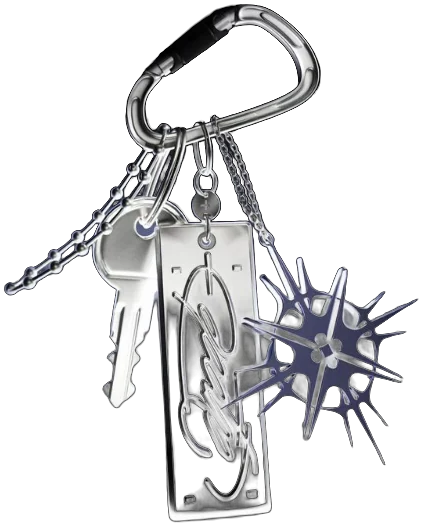
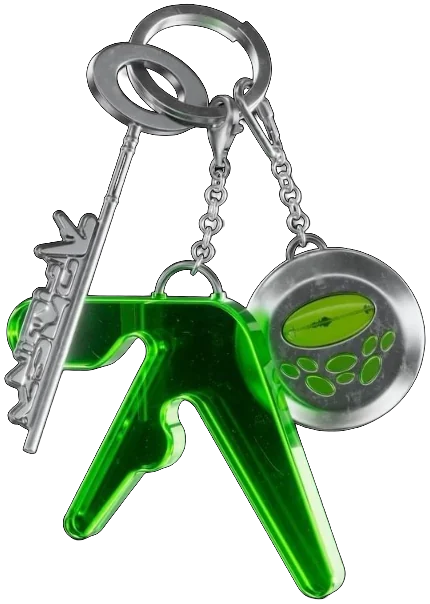
Versão 2: troca pelo chaveiro verde
Novo recorte (argola, chave, peça de acrílico verde e medalha), com o ponto de
giro na argola e o ângulo de repouso calculado pelo centro de massa da imagem.

Claude-Session: https://claude.ai/code/session_01BJCJBYPfTMpGk3G2y5F1YN

diff --git a/portfolio-site-v2/assets/css/style.css b/portfolio-site-v2/assets/css/style.css
@@ -305,8 +305,9 @@ p { text-wrap: pretty; }
 .hh-pill:active, .hh-pill.held { transform: translate(-50%, calc(-50% + 0.4cqw)); box-shadow: 0 0.15cqw 0 #8e8e8a, inset 0 0.3cqw 0 rgb(255 255 255 / 0.1); }
 
 /* Chaveiro: alça na lateral do console (no celular, um ilhós no canto) e o chaveiro pendurado nela.
-   O ponto de giro é o topo do mosquetão: 58% da largura e 3% da altura da imagem. */
-.toy { --kc-w: 42cqw; --lug-x: 102cqw; --lug-y: 108cqw; --kc-rest: -10deg; }
+   O ponto de giro é o topo da argola: --kc-px e --kc-py, em fração da imagem (430x604, proporção --kc-ar).
+   --kc-rest é o ângulo em que o peso fica embaixo do ponto de giro. */
+.toy { --kc-w: 38cqw; --lug-x: 102cqw; --lug-y: 108cqw; --kc-rest: 5deg; --kc-px: 0.434; --kc-py: 0.015; --kc-ar: 1.405; }
 .hh-lug {
   position: absolute; left: calc(100% - 0.5cqw); top: calc(var(--lug-y) - 4.5cqw); width: 5.6cqw; height: 9cqw;
   border: 1.9cqw solid #b9b9b4; border-left: 0; border-radius: 0 4.5cqw 4.5cqw 0;
@@ -315,18 +316,18 @@ p { text-wrap: pretty; }
 .keychain { position: absolute; inset: 0; z-index: 3; pointer-events: none; filter: drop-shadow(0 1px 1px rgb(0 0 0 / 0.28)) drop-shadow(0 10px 12px rgb(30 40 60 / 0.22)); }
 .kc-anchor { position: absolute; left: var(--lug-x); top: var(--lug-y); width: 0; height: 0; }
 .kc-swing {
-  position: absolute; left: calc(var(--lug-x) - var(--kc-w) * 0.58); top: calc(var(--lug-y) - var(--kc-w) * 0.037); width: var(--kc-w);
-  transform-origin: 58% 3%; transform: rotate(var(--kc-rest)); pointer-events: auto; cursor: grab; touch-action: none; will-change: transform;
+  position: absolute; left: calc(var(--lug-x) - var(--kc-w) * var(--kc-px)); top: calc(var(--lug-y) - var(--kc-w) * var(--kc-ar) * var(--kc-py)); width: var(--kc-w);
+  transform-origin: calc(var(--kc-px) * 100%) calc(var(--kc-py) * 100%); transform: rotate(var(--kc-rest)); pointer-events: auto; cursor: grab; touch-action: none; will-change: transform;
 }
 .kc-swing:active { cursor: grabbing; }
 .kc-swing img { width: 100%; height: auto; user-select: none; -webkit-user-drag: none; }
 @media (max-width: 899px) {
-  .toy { --kc-w: 28cqw; --lug-x: 94cqw; --lug-y: 133cqw; --kc-rest: -6deg; }
+  .toy { --kc-w: 26cqw; --lug-x: 94cqw; --lug-y: 133cqw; }
   .hh-lug {
     left: calc(var(--lug-x) - 2.6cqw); top: calc(var(--lug-y) - 2.6cqw); width: 5.2cqw; height: 5.2cqw; border: 0; border-radius: 50%;
     background: radial-gradient(circle, #5a5a57 0 45%, #b9b9b5 52%, #e4e4e0 70%); box-shadow: inset 0 0.4cqw 0.6cqw rgb(0 0 0 / 0.3);
   }
-  .toy-col { margin-bottom: 84px !important; }
+  .toy-col { margin-bottom: 100px !important; }
 }
 
 /* Analógicos */

diff --git a/portfolio-site-v2/index.html b/portfolio-site-v2/index.html
@@ -133,7 +133,7 @@
             <!-- Chaveiro preso na alça do console: balança com o mouse, dá para puxar e chacoalha com os botões. -->
             <div class="keychain" aria-hidden="true">
               <span class="kc-anchor" data-kc-anchor></span>
-              <span class="kc-swing" data-keychain><img src="assets/img/keychain.webp" alt="" width="423" height="527" draggable="false" decoding="async"></span>
+              <span class="kc-swing" data-keychain><img src="assets/img/keychain.webp" alt="" width="430" height="604" draggable="false" decoding="async"></span>
             </div>
           </div>
         </div>

diff --git a/portfolio-site-v2/assets/js/main.js b/portfolio-site-v2/assets/js/main.js
@@ -463,7 +463,7 @@
         // Segurando: o chaveiro segue o dedo, com um pouco de mola.
         v += ((drag.target - a) * 260 - v * 18) * dt;
       } else {
-        v += (-46 * Math.sin(a - r) - 1.5 * v) * dt;
+        v += (-46 * Math.sin(a - r) - 2 * v) * dt;
       }
       a += v * dt;
       set();

diff --git a/portfolio-site-v2/README.md b/portfolio-site-v2/README.md
@@ -13,7 +13,7 @@ O site é HTML, CSS e JavaScript puros, sem etapa de build. Funciona direto no G
   - **Snake do pipeline:** a cobrinha come linhas de dados (direcionais ou deslizar).
 
   Segurar uma direção repete o movimento. Direcionais ou toque escolhem o jogo, **A** ou **START** começam, **B**, **SELECT** ou **MENU** voltam ao menu. Com o foco no console, o teclado também funciona. Os recordes ficam salvos no navegador de quem joga.
-  Um **chaveiro** fica preso na alça do console (`assets/img/keychain.webp`): balança quando o mouse passa, dá para puxar e soltar, e chacoalha quando você aperta os botões.
+  Um **chaveiro** verde fica preso na alça do console (`assets/img/keychain.webp`): balança quando o mouse passa, dá para puxar e soltar, e chacoalha quando você aperta os botões.
   Embaixo, a **stack** em teclas com os logos (`homeStack` no `data.js`).
 - **Artes do fundo:** cada aba tem artes escondidas (estátua, coruja em meio-tom, pássaro em ASCII, flor pixelada e a mão com os alertas). No computador, elas aparecem num círculo em volta do mouse. No celular, o círculo passeia sozinho de arte em arte e o dedo também revela. As imagens ficam em `assets/img/` (`hero-art.webp` e `art-*.webp`) e a posição de cada uma por aba fica no `style.css`, na seção "Artes do fundo".
 - **Dock de vidro:** troca entre projetos, lab e perfil. Os endereços `#projetos`, `#lab` e `#perfil` funcionam como links diretos.
